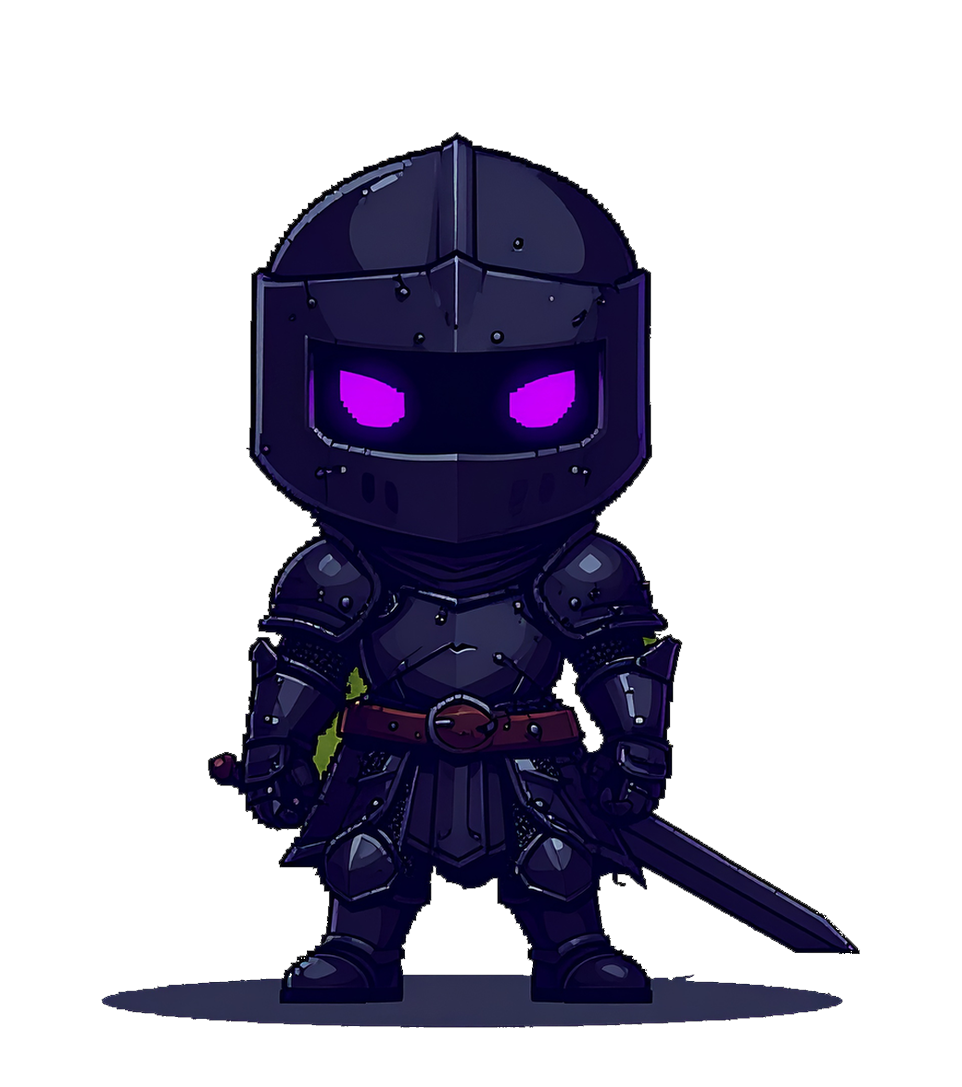
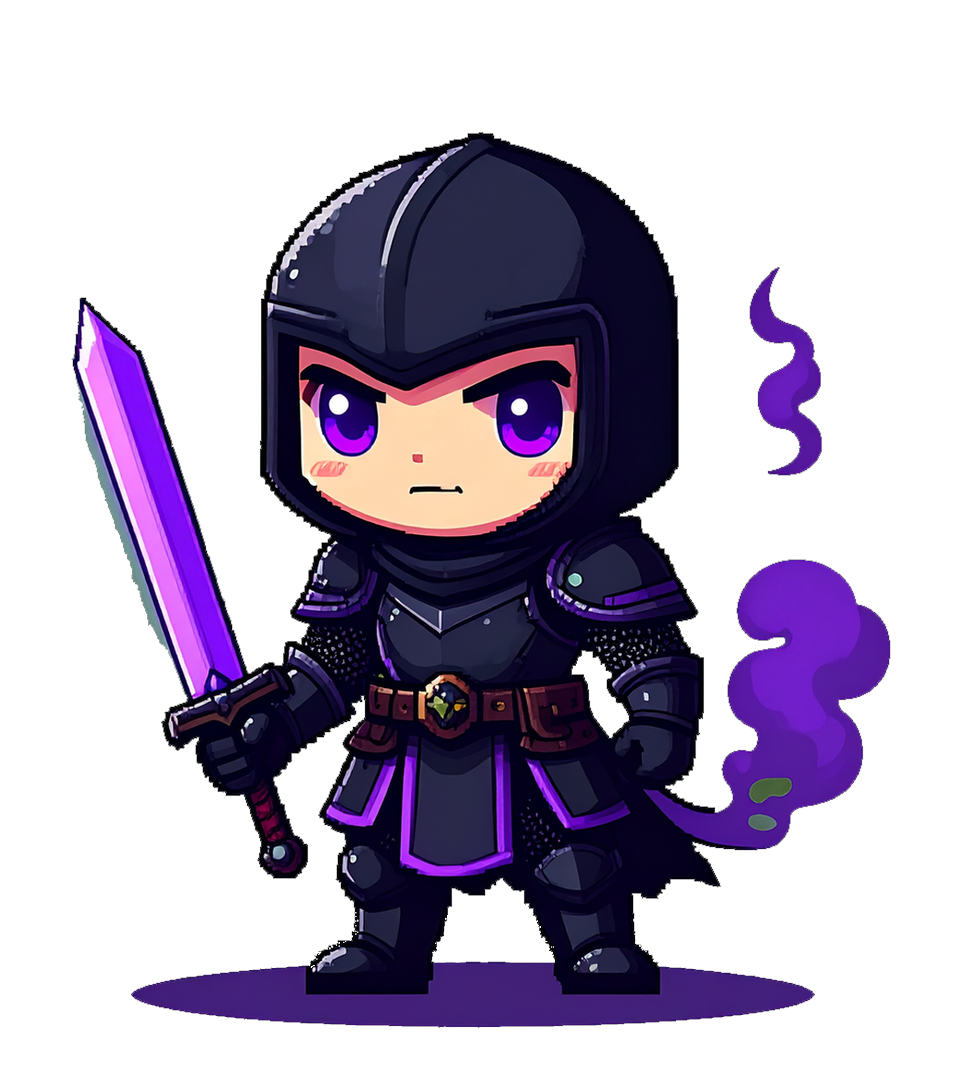
공략본 스토리 탭: 줄거리·주인공·동료·보스 16명 초상화, 스포일러 접기
- guide.html 📖 스토리 탭 (ko/en/es 번역 키, 번역 버전 55)
- 인물 카드는 전신이 다 보이게 표시
- 그림체가 달랐던 보스 3명(심연의 기사·옥문의 수호자·전쟁의 전사) 초상화 다시 제작

Changed region(s): [[0.0624, 0.1214, 0.9356, 0.9715], [0.7796, 0.2429, 0.8732, 0.4554]]

diff --git a/data/language/es/codex.js b/data/language/es/codex.js
@@ -140,6 +140,53 @@ Object.assign(window._LANG_es, {
             "tab_battle": "🛡 Combate",
             "tab_map": "🗺 Peligros",
             "tab_route": "🏁 Recorrido",
+            "tab_story": "📖 Historia",
+            "s_story": "Argumento",
+            "story_p": "Hace quince años, en la Noche en que se Partió el Cielo, se halló entre los escombros a una criatura con una <b>cicatriz de estrella partida</b> en la palma. Con los años se convierte en quien <b>comanda</b> la milicia de la aldea de Solbit. Junto a los miembros del clan, cruza un mundo que se derrumba bajo el hielo, la plaga y el fuego para cerrar la puerta del Señor Demoníaco. Las escenas aparecen antes y después de cada fase y durante el combate, y puedes volver a verlas con <b>Repetir historia</b> en la selección de fases.",
+            "s_hero": "Protagonista",
+            "hero_h": "Comandante (nombre por defecto: Lian)",
+            "hero_p": "Puedes elegir entre hombre o mujer y cambiar el nombre. Uniforme azul marino, charreteras doradas y bastón de mando plateado. Dirige <b>sin pisar nunca el campo de batalla</b>, leyendo el combate desde la retaguardia y dando órdenes, por eso no forma parte del grupo de combate. El bastón se lo legó Bram: es el símbolo de quien solo comanda.",
+            "s_cast": "Compañeros y personajes",
+            "cast_bram_n": "Bram",
+            "cast_bram_r": "Viejo caballero · Mentor",
+            "cast_bram_p": "Instructor de la milicia y antiguo caballero real. Llama \"peque\" a quien comanda. Desconfía del Archimago Real desde el principio.",
+            "cast_sera_n": "Sera",
+            "cast_sera_r": "Sanadora · Amiga de la infancia",
+            "cast_sera_p": "\"Si te hieren, yo te curo.\" Una sanadora amable que se agota cuidando a los demás. Choca con quien comanda por la evacuación y ambas partes crecen con ello.",
+            "cast_bark_n": "Bark",
+            "cast_bark_r": "Vanguardia · Exbandido",
+            "cast_bark_p": "Un luchador que se hizo bandido por hambre. Acogido en la fase 5, se convierte en el alma alegre del clan.",
+            "cast_kasha_n": "Kasha",
+            "cast_kasha_r": "Rival · Líder de la Pluma Negra",
+            "cast_kasha_p": "Una rival que desprecia al \"comandante de pueblo\" y convierte cada misión en una carrera. Luchando hombro con hombro, poco a poco se vuelve una verdadera compañera.",
+            "cast_ordin_n": "Ordin",
+            "cast_ordin_r": "Archimago Real · Mecenas",
+            "cast_ordin_p": "El Archimago Real que patrocina al clan. Muestra un interés inusual por la cicatriz de quien comanda.",
+            "s_boss": "Jefes",
+            "boss_p": "Cada jefe está ligado a la historia. El número es la fase.",
+            "boss_10": "El cabecilla de la fortaleza de bandidos. Recibió sus armas de un mago misterioso.",
+            "boss_20": "Un caballero real congelado: Halvar, antiguo compañero de armas de Bram.",
+            "boss_30": "Un invocador del pantano que propaga la plaga en el Pantano de Aguanegra.",
+            "boss_40": "El emperador que pactó: \"Aviva el fuego y tendrás un mundo nuevo\".",
+            "boss_45": "Un guardián del Abismo que busca la Llave.",
+            "boss_50": "Un guerrero gigante que custodia el camino del Abismo.",
+            "boss_60": "El guardián de la Puerta del Infierno, que solo cruza la sangre de la Llave.",
+            "boss_70": "Un hechicero demoníaco que sacude el corazón con ilusiones.",
+            "boss_80": "Un invocador que llama al dios desde lo más alto del cielo.",
+            "boss_90": "Un general demoníaco que marcha sobre Solbit, el hogar del clan.",
+            "boss_92": "La primera espada del Señor; en otro tiempo, un caballero humano.",
+            "boss_93": "Un mago que lo calcula todo.",
+            "boss_94": "Un invocador de huestes sin fin.",
+            "boss_95": "Un demonio que quiso ser humano. Pregunta: \"¿Qué es un humano?\".",
+            "boss_99": "El último escudo que protege al Señor.",
+            "boss_100": "El Señor Demoníaco cuya puerta cerraron los Selladores hace quince años.",
+            "s_spoil": "Clave de la trama",
+            "spoil_sum": "Spoilers: toca para mostrar",
+            "spoil_1": "Los padres de quien comanda eran <b>Selladores</b> reales que cerraban las grietas del cielo. La cicatriz marca ese linaje: la <b>Llave</b> que abre y cierra la puerta.",
+            "spoil_2": "En el Ep5 (fase 49), Bram revela la verdad y cae defendiendo la retirada en solitario.",
+            "spoil_3": "Ordin es el cerebro oculto que abandonó a los Selladores hace quince años. Quiere abrir la Puerta del Infierno e invocar al dios: es el <b>Invocador del dios</b> de la fase 80.",
+            "spoil_4": "Quien comanda perdona la vida a Ordin, que al final expía su culpa rompiendo el último sello del trono con su propia vida.",
+            "spoil_5": "En el final, el bastón de mando se deja a un lado y todos los miembros del clan juntan las manos para girar la Llave a la vez.",
             "s_overview": "Visión general",
             "overview_p": "Lleva a <b>5 miembros</b> del clan por 10 episodios y <b>100 fases</b>. Cada 10 fases aparece un jefe, y el último episodio encadena jefes. El comandante (protagonista) dirige desde la retaguardia y no combate.",
             "overview_warn": "<b>Los enemigos crecen exponencialmente.</b> Subir de nivel no basta: necesitas ascensos, habilidades, equipo, bonus de combinación y tácticas.",

diff --git a/data/language/ko/codex.js b/data/language/ko/codex.js
@@ -140,6 +140,53 @@ Object.assign(window._LANG_ko, {
             "tab_battle": "🛡 전투",
             "tab_map": "🗺 맵 환경",
             "tab_route": "🏁 구간 공략",
+            "tab_story": "📖 스토리",
+            "s_story": "줄거리",
+            "story_p": "15년 전 하늘이 갈라진 밤, 잔해 속에서 손바닥에 <b>갈라진 별 흉터</b>를 지닌 아이가 발견되었다. 그 아이가 자라 변경 솔빛 마을 자경단의 <b>지휘관</b>이 된다. 클랜원들과 함께 냉기·역병·화염으로 무너지는 세계를 지나 마계 군주의 문을 잠그는 이야기다. 장면은 스테이지 앞뒤와 전투 중에 나오고, 스테이지 선택 화면의 <b>스토리 다시 보기</b>로 다시 볼 수 있다.",
+            "s_hero": "주인공",
+            "hero_h": "지휘관 (기본 이름 리안)",
+            "hero_p": "남·여를 고를 수 있고 이름도 바꿀 수 있다. 남색 제복에 금 견장, 은 지휘봉. <b>전장에 직접 나가지 않고</b> 뒤에서 판을 읽고 명령하는 사령관이라 전투 파티에는 들어가지 않는다. 지휘봉은 스승 브람이 물려준 것으로, 지휘만 하는 사람의 상징이다.",
+            "s_cast": "동료와 인물",
+            "cast_bram_n": "브람",
+            "cast_bram_r": "노기사 · 스승",
+            "cast_bram_p": "자경단 교관. 왕국 기사단 출신으로 지휘관을 \"꼬맹이\"라 부른다. 처음부터 왕실 대마도사를 의심한다.",
+            "cast_sera_n": "세라",
+            "cast_sera_r": "치유사 · 소꿉친구",
+            "cast_sera_p": "\"다치면 내가 고쳐 줄게.\" 남을 돌보다 과로하는 상냥한 치유사. 피난 문제로 지휘관과 부딪히며 함께 자란다.",
+            "cast_bark_n": "바크",
+            "cast_bark_r": "돌격대장 · 전직 산적",
+            "cast_bark_p": "굶주림 끝에 산적이 된 투사. 5스테이지에서 지휘관에게 거둬져 클랜의 분위기 메이커가 된다.",
+            "cast_kasha_n": "카샤",
+            "cast_kasha_r": "라이벌 · 용병단 「검은 깃」 단장",
+            "cast_kasha_p": "\"시골 지휘관\"이라 깔보며 경주를 거는 라이벌. 함께 싸우며 점점 전우가 된다.",
+            "cast_ordin_n": "오르딘",
+            "cast_ordin_r": "왕실 대마도사 · 후원자",
+            "cast_ordin_p": "클랜을 후원하는 왕실 대마도사. 지휘관의 흉터에 유난히 관심을 보인다.",
+            "s_boss": "보스",
+            "boss_p": "보스는 모두 이야기와 이어져 있다. 숫자는 스테이지 번호.",
+            "boss_10": "산적 요새의 두목. 정체 모를 마법사에게 무기를 받았다.",
+            "boss_20": "얼어붙은 왕국 기사. 브람의 옛 전우 할바르다.",
+            "boss_30": "흑수 습지에 역병을 퍼뜨리는 늪의 소환사.",
+            "boss_40": "\"불을 키우면 새 세상을 준다\"는 밀약을 맺은 제국 황제.",
+            "boss_45": "심연 아래의 문지기. 열쇠를 노린다.",
+            "boss_50": "심연의 길을 지키는 거대한 전사.",
+            "boss_60": "열쇠의 피로만 넘을 수 있는 지옥문의 수호자.",
+            "boss_70": "환영으로 마음을 흔드는 악마 마법사.",
+            "boss_80": "하늘 꼭대기에서 신을 부르는 소환사.",
+            "boss_90": "고향 솔빛 마을을 짓밟으러 온 마계 대장군.",
+            "boss_92": "군주의 첫 번째 검. 한때는 인간 기사였다.",
+            "boss_93": "모든 것을 계산하는 마술사.",
+            "boss_94": "끝없는 군세를 부르는 소환사.",
+            "boss_95": "인간이 되고 싶었던 악마. \"인간이란 무엇이냐\"고 묻는다.",
+            "boss_99": "군주를 지키는 마지막 방패.",
+            "boss_100": "15년 전 봉인자 부부에게 문을 잠긴 마계의 군주.",
+            "s_spoil": "줄거리 핵심",
+            "spoil_sum": "스포일러 주의 — 눌러서 펼치기",
+            "spoil_1": "지휘관의 부모는 하늘의 틈을 닫는 왕실 <b>봉인자</b>였다. 흉터는 그 핏줄, 곧 문을 여닫는 <b>열쇠</b>다.",
+            "spoil_2": "브람은 Ep5(49스테이지)에서 진실을 밝히고 퇴로를 홀로 지키다 쓰러진다.",
+            "spoil_3": "오르딘은 15년 전 봉인자 부부를 버리고 도망친 흑막. 지옥문을 열어 신을 부르려 하며, 80스테이지 <b>신의 소환사</b>가 바로 그다.",
+            "spoil_4": "지휘관은 패배한 오르딘을 살려 두고, 오르딘은 마지막에 자기 목숨으로 옥좌의 봉인을 풀어 속죄한다.",
+            "spoil_5": "피날레에서 지휘관은 지휘봉을 내려놓고 모든 클랜원과 손을 포개 함께 열쇠를 돌린다.",
             "s_overview": "게임의 큰 그림",
             "overview_p": "클랜원 <b>5명</b>을 데리고 10개 에피소드, <b>100스테이지</b>를 돌파합니다. 10스테이지마다 보스가 나오고, 마지막 에피소드는 보스가 연달아 나옵니다. 지휘관(주인공)은 후방에서 클랜을 이끄는 인물이라 전투에는 나가지 않습니다.",
             "overview_warn": "<b>적은 기하급수적으로 강해집니다.</b> 레벨만으로는 못 따라갑니다. 승급·스킬·장비·조합 버프·전술을 모두 써야 끝까지 갈 수 있습니다.",

diff --git a/data/language/en/codex.js b/data/language/en/codex.js
@@ -140,6 +140,53 @@ Object.assign(window._LANG_en, {
             "tab_battle": "🛡 Battle",
             "tab_map": "🗺 Hazards",
             "tab_route": "🏁 Walkthrough",
+            "tab_story": "📖 Story",
+            "s_story": "Plot",
+            "story_p": "Fifteen years ago, on the Night the Sky Split, a child with a <b>split-star scar</b> on one palm was found in the rubble. That child grows up to become the <b>Commander</b> of the militia of Solbit Village. Together with the clan members, the Commander crosses a world crumbling under frost, plague and fire to lock the Demon Lord's gate. Scenes play before and after stages and during battles, and you can rewatch them with <b>Story Replay</b> on the stage select screen.",
+            "s_hero": "Protagonist",
+            "hero_h": "The Commander (default name: Lian)",
+            "hero_p": "Choose male or female and rename freely. Navy uniform, gold epaulettes and a silver baton. A commander who <b>never goes onto the field</b> but reads the battle from the rear and gives orders, so the Commander is never in the battle party. The baton was handed down by Bram, a symbol of one who only commands.",
+            "s_cast": "Companions & cast",
+            "cast_bram_n": "Bram",
+            "cast_bram_r": "Old knight · Mentor",
+            "cast_bram_p": "The militia's drillmaster. A former royal knight who calls the Commander \"kid\". Suspicious of the Royal Archmage from the very start.",
+            "cast_sera_n": "Sera",
+            "cast_sera_r": "Healer · Childhood friend",
+            "cast_sera_p": "\"If you get hurt, I'll fix you up.\" A kind healer who works herself to exhaustion. She clashes with the Commander over the evacuation, and both grow from it.",
+            "cast_bark_n": "Bark",
+            "cast_bark_r": "Vanguard · Ex-bandit",
+            "cast_bark_p": "A brawler who turned bandit out of hunger. Taken in by the Commander at stage 5, he becomes the clan's mood-maker.",
+            "cast_kasha_n": "Kasha",
+            "cast_kasha_r": "Rival · Leader of the Black Feather",
+            "cast_kasha_p": "A rival who sneers at the \"country commander\" and turns every mission into a race. Fighting side by side, she slowly becomes a true comrade.",
+            "cast_ordin_n": "Ordin",
+            "cast_ordin_r": "Royal Archmage · Patron",
+            "cast_ordin_p": "The Royal Archmage who sponsors the clan. Shows an unusual interest in the Commander's scar.",
+            "s_boss": "Bosses",
+            "boss_p": "Every boss is tied to the story. The number is the stage.",
+            "boss_10": "Leader of the bandit fortress. Got his weapons from a mysterious mage.",
+            "boss_20": "A frozen royal knight — Halvar, Bram's old comrade-in-arms.",
+            "boss_30": "A swamp summoner spreading plague through Blackwater Marsh.",
+            "boss_40": "The emperor who made a pact: \"Feed the fire and you'll get a new world.\"",
+            "boss_45": "A gatekeeper of the Abyss, hunting the Key.",
+            "boss_50": "A towering warrior guarding the road through the Abyss.",
+            "boss_60": "Guardian of the Hell Gate, which only the Key's blood can pass.",
+            "boss_70": "A demon sorcerer who shakes the heart with illusions.",
+            "boss_80": "A summoner calling the god from the top of the sky.",
+            "boss_90": "A demon general marching on Solbit, the Commander's home.",
+            "boss_92": "The Lord's first sword — once a human knight.",
+            "boss_93": "A magician who calculates everything.",
+            "boss_94": "A summoner of an endless horde.",
+            "boss_95": "A demon who wished to be human. Asks: \"What is a human?\"",
+            "boss_99": "The last shield guarding the Lord.",
+            "boss_100": "The Demon Lord whose gate the Sealers locked fifteen years ago.",
+            "s_spoil": "Plot core",
+            "spoil_sum": "Spoilers — tap to reveal",
+            "spoil_1": "The Commander's parents were royal <b>Sealers</b> who closed the rifts in the sky. The scar marks that bloodline — the <b>Key</b> that opens and shuts the gate.",
+            "spoil_2": "In Ep5 (stage 49), Bram reveals the truth and falls holding the retreat alone.",
+            "spoil_3": "Ordin is the mastermind who abandoned the Sealers fifteen years ago. He plans to open the Hell Gate and summon the god — he is the <b>Summoner of the God</b> at stage 80.",
+            "spoil_4": "The Commander spares the defeated Ordin, who in the end atones by breaking the throne's final seal with his own life.",
+            "spoil_5": "In the finale, the Commander lays down the baton, and every clan member places a hand together to turn the Key as one.",
             "s_overview": "The big picture",
             "overview_p": "Lead <b>5 clan members</b> through 10 episodes and <b>100 stages</b>. A boss appears every 10 stages, and the final episode has bosses back to back. The commander (protagonist) leads from the rear and does not fight.",
             "overview_warn": "<b>Enemies grow exponentially.</b> Levels alone won't keep up — you need promotions, skills, gear, combo buffs and tactics.",

diff --git a/guide.html b/guide.html
@@ -44,6 +44,7 @@
     <button class="cx-tab" data-tab="battle" data-k="g.tab_battle"></button>
     <button class="cx-tab" data-tab="map" data-k="g.tab_map"></button>
     <button class="cx-tab" data-tab="route" data-k="g.tab_route"></button>
+    <button class="cx-tab" data-tab="story" data-k="g.tab_story"></button>
   </nav>
   <div class="cx-wrap" id="cx-body"></div>
 </main>
@@ -108,6 +109,16 @@ function build() {
   }).join('');
   const bot = [1, 2, 3, 4].map(i => { const [a, b, c] = T('g.b' + i).split('|'); return `<tr><td>${esc(a)}</td><td class="n">${esc(b)}</td><td>${esc(c)}</td></tr>`; });
   g.route = sec('g.s_route', 'route', acc) + sec('g.s_bot', 'autoplay', table('', [T('g.th_combo'), T('g.th_reach'), T('g.th_trait')], bot) + note('', '🤖', 'g.bot_note'));
+  // 스토리: 등장인물 (docs/CAST.md, 초상화 image/character/story)
+  const pp = key => `<span class="cx-pp" style="background-image:url(image/character/story/${key}.png)"></span>`;
+  const person = (key, h, r, p) => `<div class="cx-card cx-person">${pp(key)}<div><h3>${h}</h3>${r ? `<div class="cx-role">${r}</div>` : ''}<p>${p}</p></div></div>`;
+  const cast = ['bram', 'sera', 'bark', 'kasha', 'ordin'].map(k => person(k, T('g.cast_' + k + '_n'), T('g.cast_' + k + '_r'), T('g.cast_' + k + '_p'))).join('');
+  const bosses = STAGES.filter(s => s.boss).map(s => person('boss_' + s.id, `<span class="cx-pill r">${s.id}</span> ${esc(bossName(s))}`, '', T('g.boss_' + s.id))).join('');
+  g.story = sec('g.s_story', 'story', `<p class="cx-lead">${T('g.story_p')}</p>`) +
+    sec('g.s_hero', 'commander', `<div class="cx-card cx-person">${pp('commander_m')}${pp('commander_f')}<div><h3>${T('g.hero_h')}</h3><p>${T('g.hero_p')}</p></div></div>`) +
+    sec('g.s_cast', 'cast', `<div class="cx-grid2">${cast}</div>`) +
+    sec('g.s_boss', 'bosses', `<p class="cx-lead">${T('g.boss_p')}</p><div class="cx-grid2">${bosses}</div>`) +
+    sec('g.s_spoil', 'spoiler', `<details class="cx-acc"><summary><span class="cx-ic">!</span><span>${T('g.spoil_sum')}</span></summary><div class="cx-acc-b"><div class="cx-card"><ul>${[1, 2, 3, 4, 5].map(i => `<li>${T('g.spoil_' + i)}</li>`).join('')}</ul></div></div></details>`);
 
   $('cx-body').innerHTML = Object.keys(g).map((k, i) => `<div class="cx-panel ${i ? '' : 'on'}" id="p-${k}">${g[k]}</div>`).join('') + `<div class="cx-foot">${T('g.foot')}</div>`;
 }

diff --git a/css/codex.css b/css/codex.css
@@ -208,3 +208,11 @@
 }
 .cx-table.nw td:first-child { white-space: nowrap; }
 .cx-table td .cls-icon { vertical-align: -4px; border-radius: 4px; }
+
+/* 가이드 스토리 탭: 인물 초상화 (image/character/story, 962×1087 전신) */
+.cx-person { display: flex; gap: 12px; align-items: flex-start; }
+.cx-person + .cx-person { margin-top: 0; }
+.cx-pp { flex-shrink: 0; width: 64px; height: 72px; border-radius: 12px; background-color: rgba(255, 255, 255, .05); border: 1px solid var(--cx-line);
+  background-repeat: no-repeat; background-size: contain; background-position: 50% 100%; image-rendering: pixelated; }   /* 전신이 다 보이게 (확대해서 자르면 인물마다 얼굴만 보이는 등 들쑥날쑥) */
+.cx-person h3 { margin-bottom: 2px; }
+.cx-role { font-size: 11.5px; font-weight: 700; color: var(--cx-gold2); margin-bottom: 4px; }

diff --git a/js/common/i18n.js b/js/common/i18n.js
@@ -35,7 +35,7 @@ function _loadScript(src) {
 const _I18N_CACHE_KEY = 'game_i18n_cache';
 const _I18N_LANG_KEY = 'game_i18n_lang';
 const _I18N_VER_KEY = 'game_i18n_ver';
-const _I18N_VERSION = 54; // bump when language data changes
+const _I18N_VERSION = 55; // bump when language data changes
 const _LANG_PARTS = ['common','battle','stages','classes','skills','items','ui','character','gear','codex'];
 
 // 다중 파일 병렬 로드
